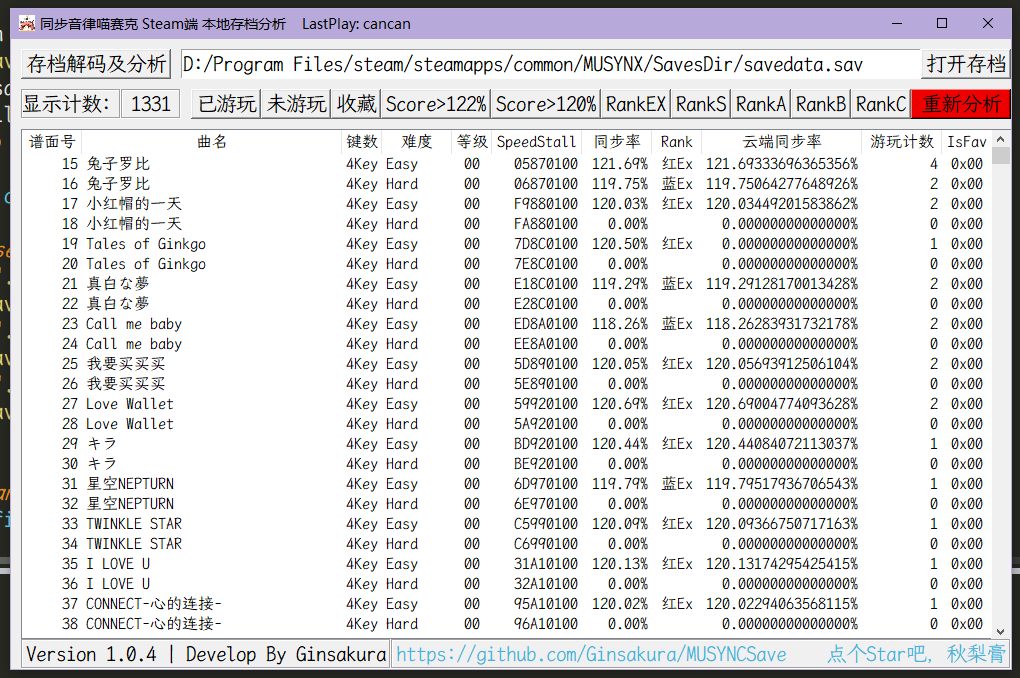
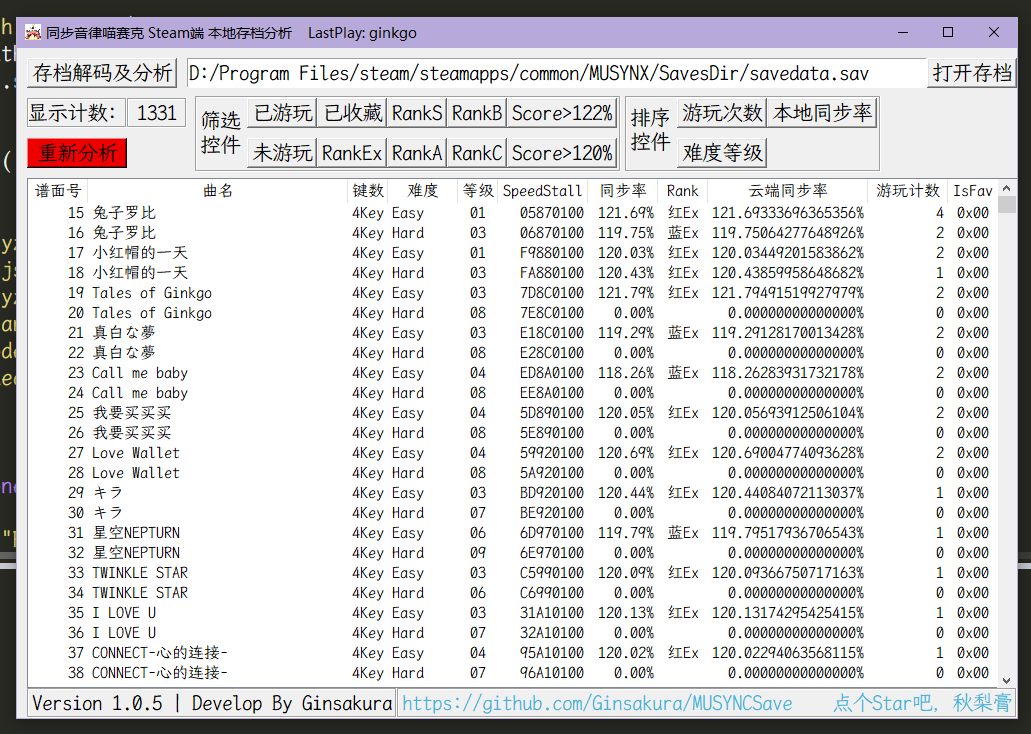
Update 1.0.5

diff --git a/MusyncSavDecodeGUI.py b/MusyncSavDecodeGUI.py
@@ -47,7 +47,7 @@ class MusyncSavDecodeGUI(object):
 		self.dataSortMethod = None
 		self.dataSortMethodsort = True
 		self.dataSelectMethod = None
-		self.version = '1.0.5'
+		self.version = '1.0.6'
 
 		##Controls##
 		#self..place(x= ,y= ,width= ,height=)
@@ -111,10 +111,12 @@ class MusyncSavDecodeGUI(object):
 		self.sortLabel.place(x=610,y=55,width=50,height=60)
 		self.sortPlayCountButton = Button(self.root, text="游玩次数", command=lambda:self.SortMethod('PC'), anchor="w", font=self.font)
 		self.sortPlayCountButton.place(x=660,y=50,width=90,height=30)
-		self.sortSyncButton = Button(self.root, text="本地同步率", command=lambda:self.SortMethod('Sync'), anchor="w", font=self.font)
-		self.sortSyncButton.place(x=750,y=50,width=110,height=30)
 		self.sortDiffNumButton = Button(self.root, text="难度等级", command=lambda:self.SortMethod('DiffNum'), anchor="w", font=self.font)
 		self.sortDiffNumButton.place(x=660,y=90,width=90,height=30)
+		self.sortSyncButton = Button(self.root, text="本地同步率", command=lambda:self.SortMethod('Sync'), anchor="w", font=self.font)
+		self.sortSyncButton.place(x=750,y=50,width=110,height=30)
+		self.sortSongNameButton = Button(self.root, text="歌曲名称", command=lambda:self.SortMethod('SongName'), anchor="w", font=self.font)
+		self.sortSongNameButton.place(x=750,y=90,width=90,height=30)
 
 		##AutoRun##
 		self.UpdateWindowInfo()
@@ -188,14 +190,17 @@ class MusyncSavDecodeGUI(object):
 		if method == "PC":self.sortPlayCountButton.configure(bg='#FF7B7B')
 		elif method == "Sync":self.sortSyncButton.configure(bg='#FF7B7B')
 		elif method == "DiffNum":self.sortDiffNumButton.configure(bg='#FF7B7B')
+		elif method == "SongName":self.sortSongNameButton.configure(bg='#FF7B7B')
 	def SortButtonGreen(self,method):
 		if method == "PC":self.sortPlayCountButton.configure(bg='#98E22B')
 		elif method == "Sync":self.sortSyncButton.configure(bg='#98E22B')
 		elif method == "DiffNum":self.sortDiffNumButton.configure(bg='#98E22B')
+		elif method == "SongName":self.sortSongNameButton.configure(bg='#98E22B')
 	def SortButtonGreenGrey(self,method):
 		if method == "PC":self.sortPlayCountButton.configure(bg='#F0F0F0')
 		elif method == "Sync":self.sortSyncButton.configure(bg='#F0F0F0')
 		elif method == "DiffNum":self.sortDiffNumButton.configure(bg='#F0F0F0')
+		elif method == "SongName":self.sortSongNameButton.configure(bg='#F0F0F0')
 	def SelectButtonGreen(self,method):
 		if method == "Played":self.selectPlayedButton.configure(bg='#98E22B')
 		elif method == "Unplay":self.selectUnplayButton.configure(bg='#98E22B')
@@ -291,6 +296,8 @@ class MusyncSavDecodeGUI(object):
 			return sorted(_dict, reverse=self.dataSortMethodsort, key=(lambda _dict:float(_dict["SyncNumber"][0:-1])))
 		elif self.dataSortMethod == "DiffNum":
 			return sorted(_dict, reverse=self.dataSortMethodsort, key=(lambda _dict:(_dict["SongName"][3]) if (not _dict["SongName"] == None) else "00"))
+		elif self.dataSortMethod == "SongName":
+			return sorted(_dict, reverse=(not self.dataSortMethodsort), key=(lambda _dict:(_dict["SongName"][0]) if (not _dict["SongName"] == None) else ""))
 		else:
 			return _dict
 
